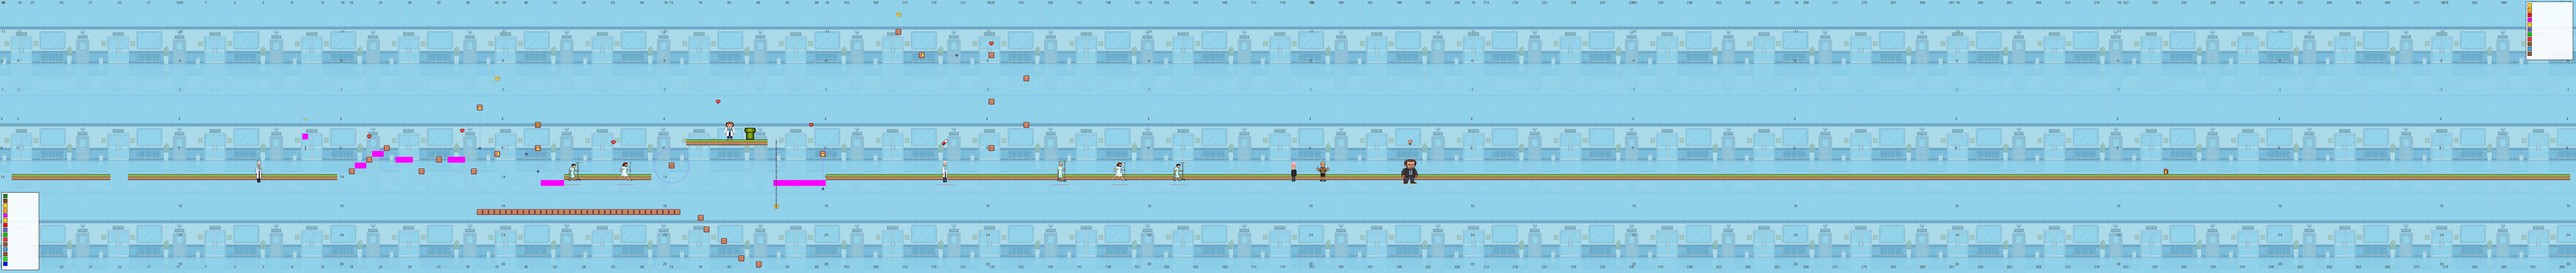
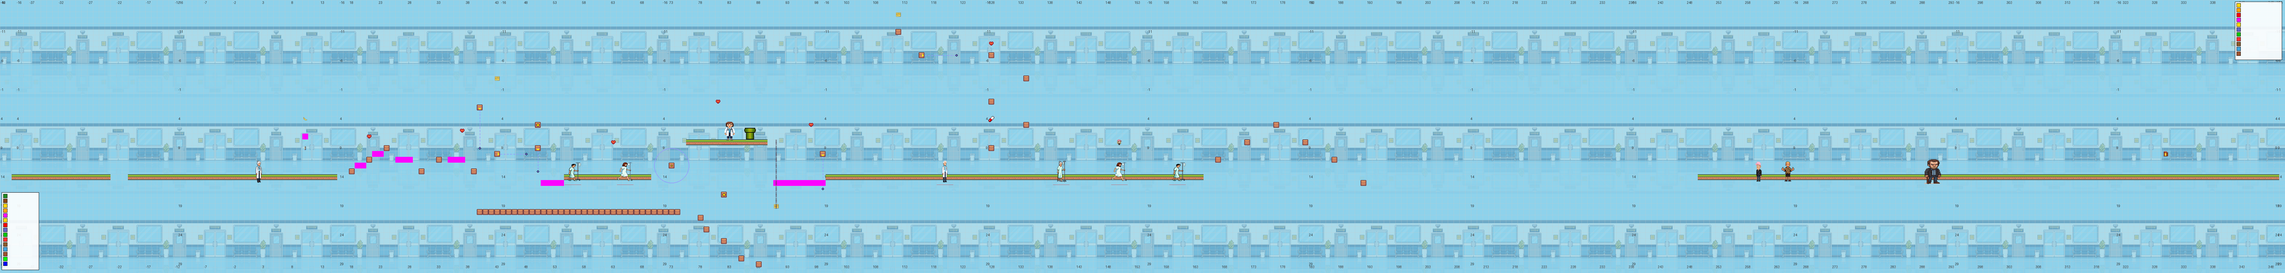
Kollisionsprüfung Gegner bei Hit

diff --git a/platformer/levels/hospital.py b/platformer/levels/hospital.py
@@ -26,7 +26,9 @@ level_config = {
     + [(i, 14) for i in range(55, 70)]
     + [(i, 8) for i in range(76, 90)]
     + [(i, 14) for i in range(100, 120)]
-    + [(i, 14) for i in range(115, 400)],
+    + [(i, 14) for i in range(115, 165)]
+    + [(i, 14) for i in range(206, 220)]
+    + [(i, 14) for i in range(250, 350)],
     # Challenging block structures throughout the level
     "block_locations": [
         # Starting obstacle
@@ -49,7 +51,40 @@ level_config = {
         (82,25),
         (79,23),
         (78,21),
-        *[(i, 20) for i in range(40, 75)]
+         #Obstacle near end
+        (167,11),
+        (172,8),
+        (177,5),
+        (182,8),
+        (187,11),
+        (192,8),
+        (197,5),
+        (202,5),
+        # Erste Treppe für Gegner 
+        (206,5),
+        (206,6),
+        (206,7),
+        (206,8),
+        (206,9),
+        (206,10),
+        (206,11),
+        (206,12),
+        (206,13),
+        (206,14),
+        (206,15),
+        # Zweite Treppe für Gegner 
+        (219,15),
+        (219,14),
+        (219,13),
+        (219,12),
+        (219,11),
+        (219,10),
+        (219,9),
+        (219,8),
+        (219,7),
+        (219,6),
+        (219,5),
+        *[(i, 20) for i in range(40, 75)],
     ],
     # Poppable blocks (like Mario question blocks)
     "poppable_block_locations": [
@@ -67,6 +102,7 @@ level_config = {
             "item": {"type": "powerup", "powerup_type": 3},
             "image": "medizinschrank.png",  # Eigenes Bild
         },  # Releases Pulver
+         {"x":218, "y": 9, "type": "invisible"},  # Invisible block
     ],
 
     # Strategic gem placements
@@ -130,34 +166,41 @@ level_config = {
             "encounter_message_color": (0, 255, 0),  # Green
         },
         {
-            "type": "patient_f_young",
+            "type": "patient",
             "x": 150,
             "y": 13,
-            "encounter_message": "This hospital\nis cursed!",
+            "encounter_message": "Ich möchte den Chefarzt sprechen!",
             "encounter_message_color": (0, 255, 0),  # Green
         },
         {
             "type": "patient",
             "x": 160,
             "y": 13,
-            "encounter_message": "Don't leave\nme here!",
+            "encounter_message": "Ich werde mich beschweren!",
+            "encounter_message_color": (0, 255, 0),  # Green
+        },
+        {
+            "type": "patient_f_young",
+            "x": 212,
+            "y": 13,
+            "encounter_message": "Sie gehen erst, wenn ich geheilt bin!",
             "encounter_message_color": (0, 255, 0),  # Green
         },
         {
             "type": "jonas",
-            "x": 180,
+            "x": 260,
             "y": 13,
         },
         {
             "type": "paul",
-            "x": 185,
+            "x": 265,
             "y": 13,
         },
         {
             "type": "house",
-            "x": 200,
+            "x": 290,
             "y": 13,
-            "encounter_message": "Sie wollen doch nicht etwa schon gehen? \n Die Schicht fängt doch gerade erst an!",
+            "encounter_message": "Sie wollen doch nicht etwa schon gehen? \n Ihre Schicht fängt doch gerade erst an!",
             "drop_on_death": {
                 "type": "required_item",
                 "item_id": "busticket",
@@ -230,7 +273,7 @@ level_config = {
     ],
     # Ladder for vertical navigation
     "ladder_locations": [(91, i) for i in range(8, 20)],
-    "exit_location": (330, 11),
+    "exit_location": (330, 10),
     "exit_closed_image": "Bus.png", # Optional
     "exit_open_image": "Bus.png",   # Optional
     "exit_size_multiplier": 16,     # Make the bus 16 times bigger (default is 2)

diff --git a/platformer/entities/player.py b/platformer/entities/player.py
@@ -834,11 +834,29 @@ class Player(pg.sprite.Sprite):
             if player_relative_x < 0:
                 # Player jumped from the left side, push enemy to the right
                 if hasattr(enemy_hit, "rect"):
-                    enemy_hit.rect.x += 100
+                    knockback_distance = 100
+                    old_x = enemy_hit.rect.x
+                    enemy_hit.rect.x += knockback_distance
+                    
+                    # Check for collision with platforms, if enemy can collide
+                    if not getattr(enemy_hit, "no_clip", False):
+                        hits = pg.sprite.spritecollide(enemy_hit, self.world.platforms, False)
+                        if hits:
+                            # Collision detected, revert to old position
+                            enemy_hit.rect.x = old_x
             else:
                 # Player jumped from the right side, push enemy to the left
                 if hasattr(enemy_hit, "rect"):
-                    enemy_hit.rect.x -= 100
+                    knockback_distance = 100
+                    old_x = enemy_hit.rect.x
+                    enemy_hit.rect.x -= knockback_distance
+                    
+                    # Check for collision with platforms, if enemy can collide
+                    if not getattr(enemy_hit, "no_clip", False):
+                        hits = pg.sprite.spritecollide(enemy_hit, self.world.platforms, False)
+                        if hits:
+                            # Collision detected, revert to old position
+                            enemy_hit.rect.x = old_x
 
             sound_manager.play_sound_effect("jump")  # Play bounce sound
             return

diff --git a/platformer/config/enemy_config.py b/platformer/config/enemy_config.py
@@ -226,15 +226,15 @@ ENEMY_TYPES = {
         "speed": 1,
         "patrol_range": 50,
         "size_multiplier": 4,
-        "health": 2,
+        "health": 40,
         "damage": 20,
-        "shoot_range": 10,
+        "shoot_range": 5,
         "chase_range": 10,
-        "melee_damage": 1,
+        "melee_damage": 10,
         "can_throw_explosives": False,
         "can_summon_minions": False,
         "encounter_message": None,
-        "shoot_cooldown": 60,
+        "shoot_cooldown": 50,
     },
     "patient_f_young_follower": {
         "name": "Patient_f_young_follower",
